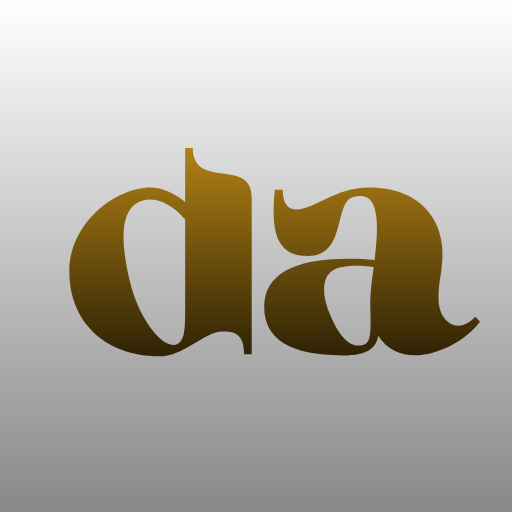
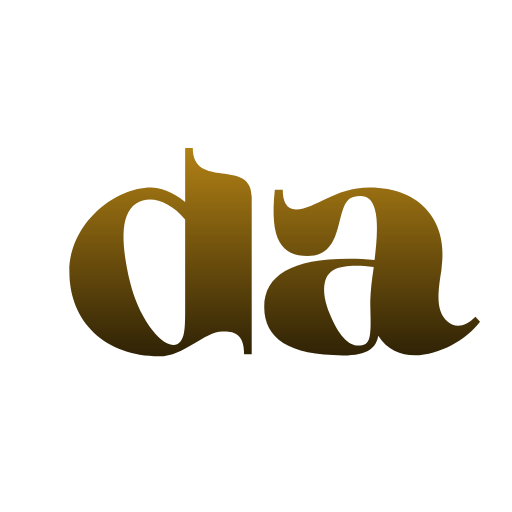
colors

diff --git a/index.html b/index.html
@@ -5,7 +5,7 @@
 		<meta charset="utf-8" />
 		<meta name="viewport" content="width=device-width, initial-scale=1" />
 		<title>daffodil</title>
-		<meta name="theme-color" content="#bf8b16" />
+		<meta name="theme-color" content="#ffffff" />
 		<link rel="manifest" href="manifest.webmanifest" />
 		<link rel="icon" href="icons/icon-512.png" />
 		<link href="styles.css" rel="stylesheet" />
@@ -14,12 +14,19 @@
 	<body>
 		<div class="main-container">
 			<div class="time-select-container">
-				<button type="button">3 min</button>
-				<button type="button">5 min</button>
-				<button type="button">10 min</button>
-				<button type="button">30 min</button>
-				<input type="text" placeholder="60" value="60" id="user-time-input" />
-				<button type="button">Start</button>
+				<button type="button" class="time-option-button">3 min</button>
+				<button type="button" class="time-option-button">5 min</button>
+				<button type="button" class="time-option-button">10 min</button>
+				<button type="button" class="time-option-button">30 min</button>
+				<div class="custom-time-selector">
+					<input type="text" placeholder="Custom" id="user-time-input" class="time-option-input" />
+					<select class="time-option-select">
+						<option value="m">mins</option>
+						<option value="h">hours</option>
+						<option value="d">days</option>
+					</select>
+				</div>
+				<button type="button" class="time-option-button" id="time-input-start-button">Start</button>
 			</div>
 		</div>
 

diff --git a/styles.css b/styles.css
@@ -28,4 +28,50 @@
 	display: flex;
 	flex-direction: column;
 	gap: 4px;
+	margin: 0px 32px;
+	max-width: 225px;
+}
+
+.custom-time-selector {
+	display: flex;
+	flex-direction: row;
+	max-width: 225px;
+}
+
+.time-option-button {
+	border-radius: 8px;
+	border: none;
+	padding: 8px 8px;
+	background-color: #e3e3e3;
+}
+
+.time-option-input {
+	border-radius: 0px;
+	border-top-left-radius: 8px;
+	border-bottom-left-radius: 8px;
+	text-align: center;
+	border: none;
+	background-color: #e3e3e3;
+	padding: 8px 8px;
+	width: 150px;
+}
+
+.time-option-input:focus {
+	outline: none;
+}
+
+.time-option-select {
+	border-radius: 0px;
+	border-top-right-radius: 8px;
+	border-bottom-right-radius: 8px;
+	border: none;
+	background-color: #e3e3e3;
+}
+
+.time-option-select:focus {
+	outline: none;
+}
+
+#time-input-start-button {
+	background-color: lightgreen;
 }
